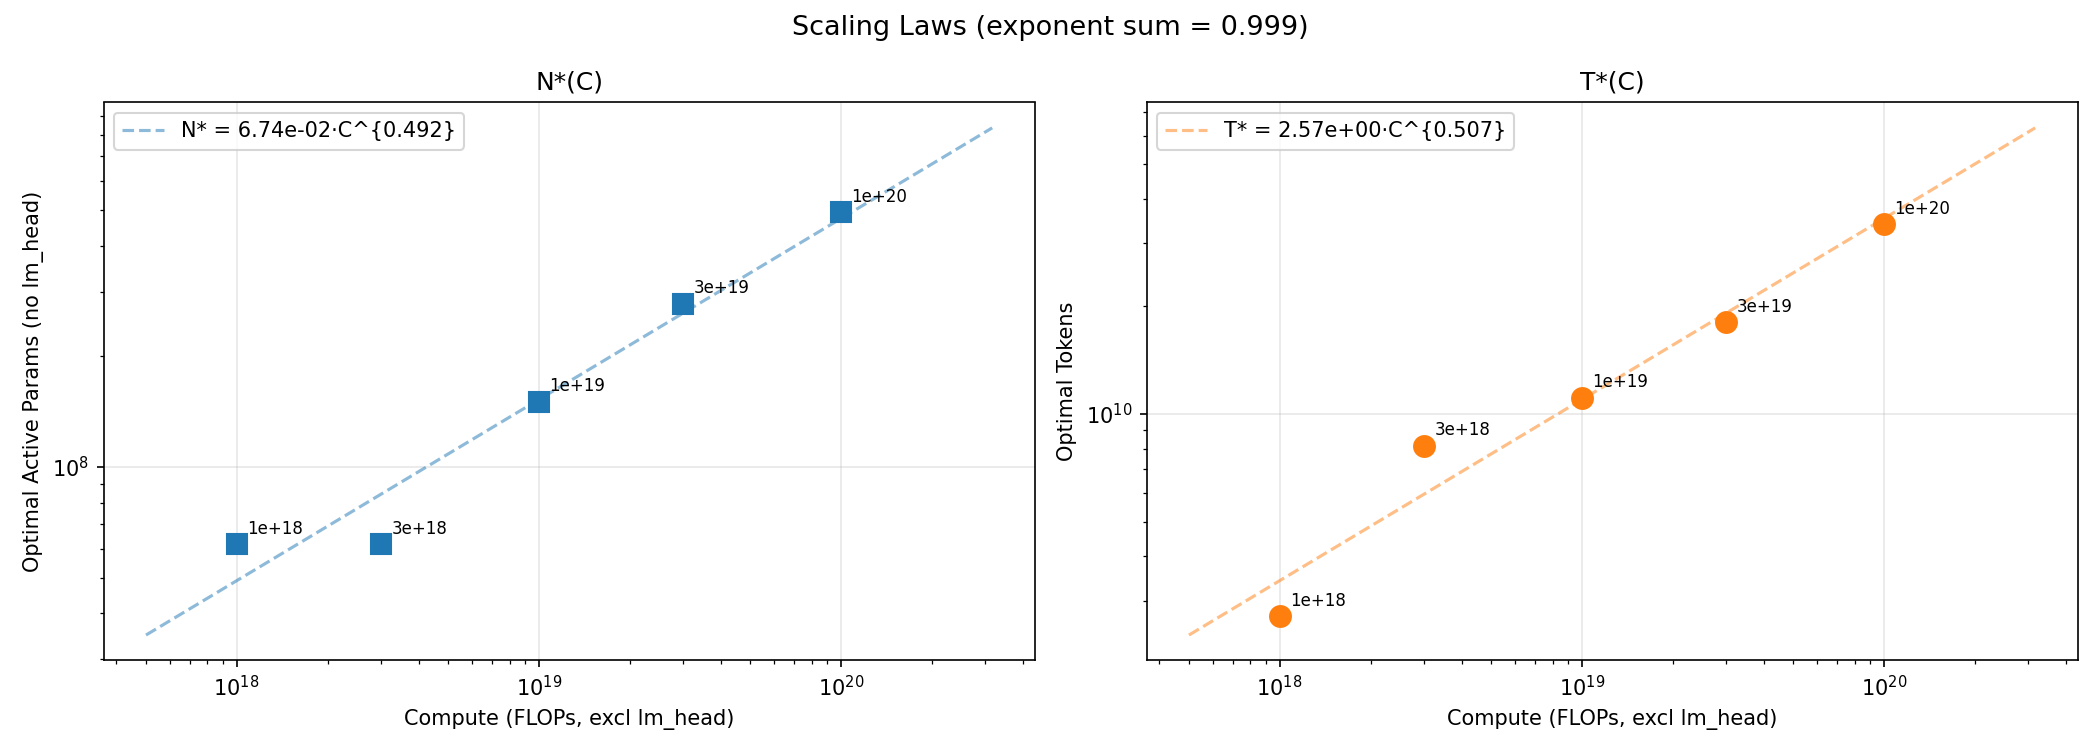
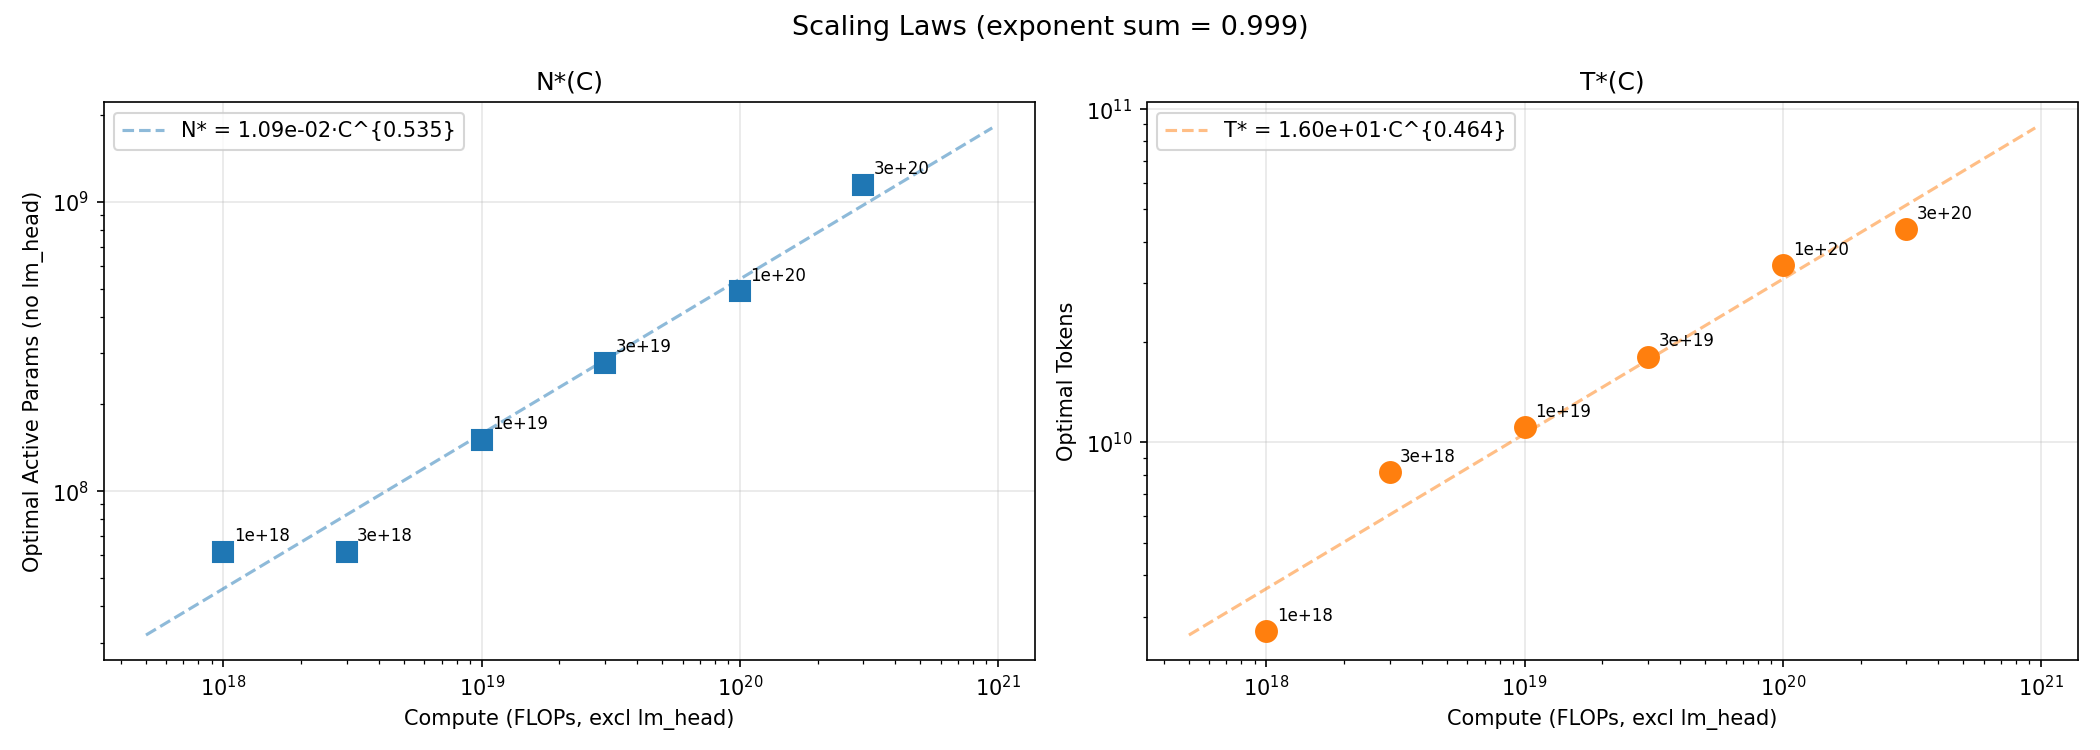
Add 3e20 to isoflop curves, update scaling law fit

diff --git a/experiments/grug/moe_apr2/new_plots/isoflop_curves.py b/experiments/grug/moe_apr2/new_plots/isoflop_curves.py
@@ -175,8 +175,8 @@ def main():
             continue
         by_budget.setdefault(r["budget"], []).append(r)
 
-    target_budgets = [1e18, 3e18, 1e19, 3e19, 1e20]
-    colors = {1e18: "C0", 3e18: "C1", 1e19: "C2", 3e19: "C3", 1e20: "C4"}
+    target_budgets = [1e18, 3e18, 1e19, 3e19, 1e20, 3e20]
+    colors = {1e18: "C0", 3e18: "C1", 1e19: "C2", 3e19: "C3", 1e20: "C4", 3e20: "C5"}
 
     # ---- Plot 1: IsoFLOP curves (BPB vs active params) ----
     fig, ax = plt.subplots(figsize=(10, 6))
@@ -359,7 +359,9 @@ def main():
         best_dim = dims_sorted[np.argmin(macros_sorted)]
         opt_tokens = budget / (3 * compute_fpt(best_dim))
 
-        macro_optima.append({"budget": budget, "opt_params": opt_params, "opt_macro": opt_macro, "opt_tokens": opt_tokens})
+        macro_optima.append(
+            {"budget": budget, "opt_params": opt_params, "opt_macro": opt_macro, "opt_tokens": opt_tokens}
+        )
 
     # ---- Plot 2: Optimal macro_loss vs Compute (scaling law) ----
     if len(macro_optima) >= 2:
@@ -387,7 +389,11 @@ def main():
 
         for o in macro_optima:
             ax2.annotate(
-                f"{o['budget']:.0e}", (o["budget"], o["opt_macro"]), textcoords="offset points", xytext=(5, 5), fontsize=8
+                f"{o['budget']:.0e}",
+                (o["budget"], o["opt_macro"]),
+                textcoords="offset points",
+                xytext=(5, 5),
+                fontsize=8,
             )
 
         ax2.set_xscale("log")
@@ -415,11 +421,22 @@ def main():
 
         # Left: N*(C)
         ax3a.plot(C_arr, N_arr, "s", color="C0", markersize=10)
-        ax3a.plot(C_grid, 10 ** (a_n * np.log10(C_grid) + b_n), "--", color="C0", alpha=0.5,
-                  label=f"N* = {10**b_n:.2e}·C^{{{a_n:.3f}}}")
+        ax3a.plot(
+            C_grid,
+            10 ** (a_n * np.log10(C_grid) + b_n),
+            "--",
+            color="C0",
+            alpha=0.5,
+            label=f"N* = {10**b_n:.2e}·C^{{{a_n:.3f}}}",
+        )
         for o in optima:
-            ax3a.annotate(f"{o['budget']:.0e}", (o["budget"], o["opt_params_no_lm"]),
-                          textcoords="offset points", xytext=(5, 5), fontsize=8)
+            ax3a.annotate(
+                f"{o['budget']:.0e}",
+                (o["budget"], o["opt_params_no_lm"]),
+                textcoords="offset points",
+                xytext=(5, 5),
+                fontsize=8,
+            )
         ax3a.set_xscale("log")
         ax3a.set_yscale("log")
         ax3a.set_xlabel("Compute (FLOPs, excl lm_head)")
@@ -430,11 +447,22 @@ def main():
 
         # Right: T*(C)
         ax3b.plot(C_arr, T_arr, "o", color="C1", markersize=10)
-        ax3b.plot(C_grid, 10 ** (a_t * np.log10(C_grid) + b_t), "--", color="C1", alpha=0.5,
-                  label=f"T* = {10**b_t:.2e}·C^{{{a_t:.3f}}}")
+        ax3b.plot(
+            C_grid,
+            10 ** (a_t * np.log10(C_grid) + b_t),
+            "--",
+            color="C1",
+            alpha=0.5,
+            label=f"T* = {10**b_t:.2e}·C^{{{a_t:.3f}}}",
+        )
         for o in optima:
-            ax3b.annotate(f"{o['budget']:.0e}", (o["budget"], o["opt_tokens"]),
-                          textcoords="offset points", xytext=(5, 5), fontsize=8)
+            ax3b.annotate(
+                f"{o['budget']:.0e}",
+                (o["budget"], o["opt_tokens"]),
+                textcoords="offset points",
+                xytext=(5, 5),
+                fontsize=8,
+            )
         ax3b.set_xscale("log")
         ax3b.set_yscale("log")
         ax3b.set_xlabel("Compute (FLOPs, excl lm_head)")
@@ -455,8 +483,12 @@ def main():
     print("\nOptima:")
     print(f"{'Budget':>10s}  {'Opt Params':>12s}  {'Opt BPB':>10s}  {'Opt Tokens':>12s}  {'Opt Macro':>10s}")
     print("-" * 60)
-    for o, m in zip(optima, macro_optima):
-        print(f"{o['budget']:>10.0e}  {o['opt_params']:>12.2e}  {o['opt_bpb']:>10.4f}  {o['opt_tokens']:>12.2e}  {m['opt_macro']:>10.4f}")
+    for o, m in zip(optima, macro_optima, strict=True):
+        row = (
+            f"{o['budget']:>10.0e}  {o['opt_params']:>12.2e}  "
+            f"{o['opt_bpb']:>10.4f}  {o['opt_tokens']:>12.2e}  {m['opt_macro']:>10.4f}"
+        )
+        print(row)
 
 
 if __name__ == "__main__":
